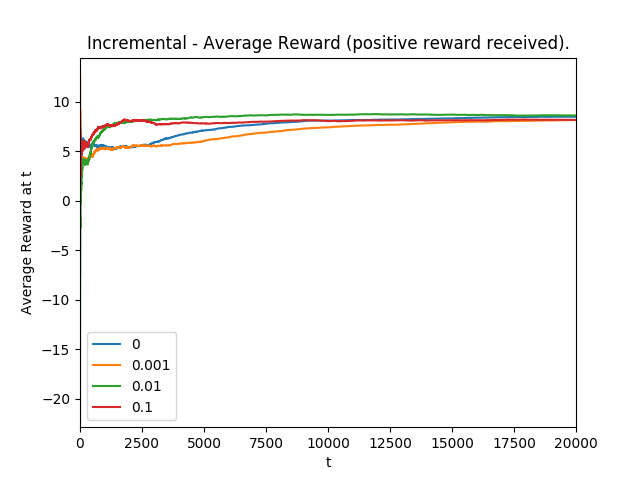
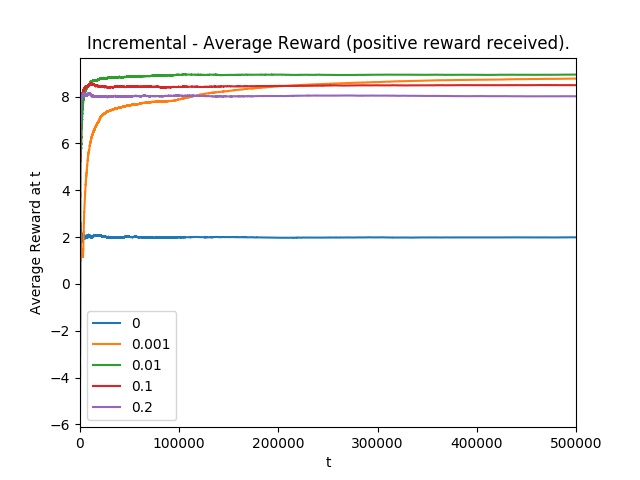
Updating the diagrams - ran for 500000 iterations

diff --git a/RLBook/nArmedBandit/ModellingEnvironment.py b/RLBook/nArmedBandit/ModellingEnvironment.py
@@ -101,7 +101,7 @@ class ModelEnvironment:
         """
         for each_trial in range(self.TRIAL_COUNT):
             logger.debug("Running Trial: {}".format(each_trial + 1))
-            if each_trial % 100 == 0:
+            if each_trial % 1000 == 0:
                 logger.info("Running Trial: {}".format(each_trial + 1))
 
             # Get the Actions
@@ -122,6 +122,7 @@ class ModelEnvironment:
         self.POLICY.show_settings()
         self.POSITIVE_REWARDS = np.array(self.ALL_REWARDS) > 0
         print("Positive Rewards Achieved: ", self.POSITIVE_REWARDS.sum(axis=0))
+        print("Positive Rewards Achieved (%): ", self.POSITIVE_REWARDS.sum(axis=0) / self.TRIAL_COUNT)
 
         # Show Weightings
         print("Show Weightings: ")

diff --git a/RLBook/nArmedBandit/main.py b/RLBook/nArmedBandit/main.py
@@ -57,10 +57,10 @@ if __name__ == '__main__':
     # env4.print_results()
     # env4.generate_charts()
 
-    # Initialise a Linear, reward-inaction Policy
+    # Initialise a Incremental Policy
     # env5 = ModelEnvironment(trials=trials, bandits=10, policy=PolicyEnum.INCREMENTAL,
-    #                         epsilons=[0, 0.001, 0.01, 0.1], alpha=0.07)
+    #                         epsilons=[0, 0.001, 0.01, 0.1, 0.2])
     # env5.run()
     # env5.print_results()
     # env5.generate_charts()
-    # MAX: 16099
+    # MAX: 16191
